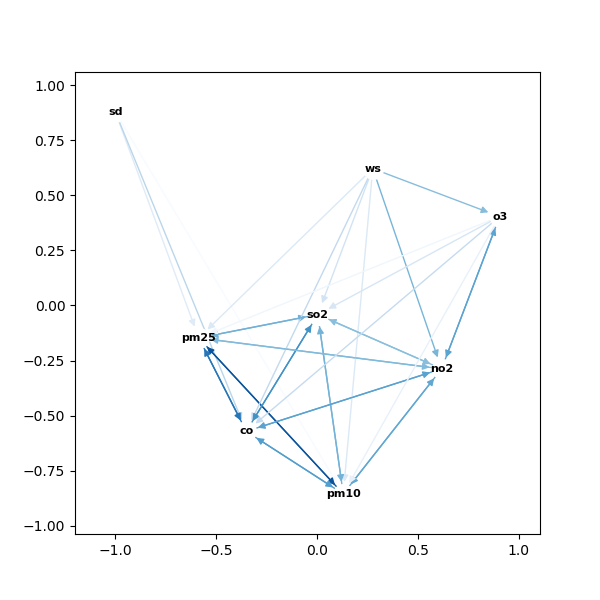
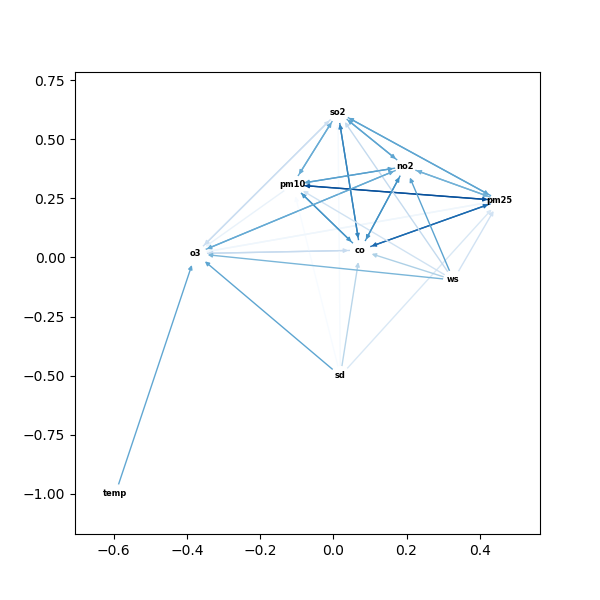
计算CCF时消除趋势影响

diff --git a/analysis/ccf.py b/analysis/ccf.py
@@ -10,6 +10,7 @@ import pandas as pd
 import numpy as np
 import json
 import matplotlib.pyplot as plt
+from sklearn.linear_model import LinearRegression
 import sys
 
 sys.path.append('../')
@@ -61,10 +62,13 @@ def mean_ccf(series_a, series_b, d, seg_len, start_locs):
 		raise ValueError('start locs末尾位置不能被分析')
 	
 	for start_loc in start_locs:
-		series_list.append(
-			[
-				series_a.copy()[start_loc: start_loc + seg_len],
-				series_b.copy()[(start_loc + d): (start_loc + seg_len + d)]])
+		series_x = erase_long_term_trend(series_a.copy()[start_loc: start_loc + seg_len])
+		series_y = erase_long_term_trend(series_b.copy()[(start_loc + d): (start_loc + seg_len + d)])
+		series_list.append([series_x, series_y])
+		# series_list.append(
+		# 	[
+		# 		series_a.copy()[start_loc: start_loc + seg_len],
+		# 		series_b.copy()[(start_loc + d): (start_loc + seg_len + d)]])
 	
 	series_list = pd.DataFrame(series_list, columns = ['series_a', 'series_b'])
 	series_list['ccf_value'] = series_list.apply(lambda x: cross_correlation(x[0], x[1], 0), axis = 1)
@@ -90,6 +94,15 @@ def time_delay_ccf_func(series_a, series_b, d_list, seg_len, start_locs):
 	return time_delay_ccf
 
 
+def erase_long_term_trend(series):
+	"""消除数据长期趋势"""
+	series = series.copy().reshape(-1, 1)
+	lr = LinearRegression().fit(np.arange(len(series)).reshape(-1, 1), series)
+	series -= lr.predict(np.arange(len(series)).reshape(-1, 1))
+	series = series.flatten()
+	return series
+
+
 if __name__ == '__main__':
 	# 参数设定
 	columns = config.conf['model_params']['continuous_columns']
@@ -102,8 +115,8 @@ if __name__ == '__main__':
 	# CCF时滞计算
 	d_list = np.arange(-100, 102, 2)
 	seg_len = 1000  # 单次ccf计算选取的序列长度
-	start_locs = np.arange(1000, 22000, 100)
-	
+	start_locs = np.arange(2000, 22000, 1000)
+
 	plt.figure(figsize = [10, 14])
 	total_time_delay_ccf = {}
 	for col_x in columns:
@@ -113,7 +126,7 @@ if __name__ == '__main__':
 			series_a, series_b = np.array(data[col_x]), np.array(data[col_y])
 			time_delay_ccf = time_delay_ccf_func(series_a, series_b, d_list, seg_len, start_locs)
 			total_time_delay_ccf[col_x][col_y] = time_delay_ccf
-			
+
 			plt.subplot(
 				len(columns), len(target_columns), len(target_columns) * columns.index(col_x) + target_columns.index(col_y) + 1)
 			plt.plot(time_delay_ccf.keys(), np.abs(list(time_delay_ccf.values())))
@@ -126,15 +139,16 @@ if __name__ == '__main__':
 			plt.yticks(fontsize = 6)
 			if col_x == columns[0]:
 				plt.title(col_y, fontsize = 8)
-			
+
 			if col_y == target_columns[0]:
 				plt.ylabel(col_x, fontsize = 8)
-			
+
 			plt.tight_layout()
 			plt.show()
 			plt.pause(1.0)
-	
+
 	plt.savefig('../graphs/ccf_analysis_on_continuous.png')
-	
+
 	with open('../tmp/total_time_delay_ccf_results.json', 'w') as f:
 		json.dump(total_time_delay_ccf, f)
+	

diff --git a/analysis/graph_net.py b/analysis/graph_net.py
@@ -100,12 +100,12 @@ if __name__ == '__main__':
 	for edge in edges:
 		weights.append(g.get_edge_data(edge[0], edge[1])['weight'])
 
-	pos = nx.spring_layout(g, iterations = 1000)
+	pos = nx.spring_layout(g, iterations = 5000)
 	plt.figure('network', figsize = [6, 6])
 	nx.draw_networkx_nodes(g, pos, node_color = 'w', node_size = 200)
 	nx.draw_networkx_edges(
-		g, pos, edge_width = 5 * weights, edge_color = weights, edge_cmap = plt.cm.Blues)
-	nx.draw_networkx_labels(g, pos, font_size = 8, font_weight = 'bold')
+		g, pos, edge_width = 10 * weights, edge_color = weights, edge_cmap = plt.cm.Blues, arrowsize = 6)
+	nx.draw_networkx_labels(g, pos, font_size = 6, font_weight = 'bold')
 	plt.savefig('../graphs/graph_net.png')
 	
 
